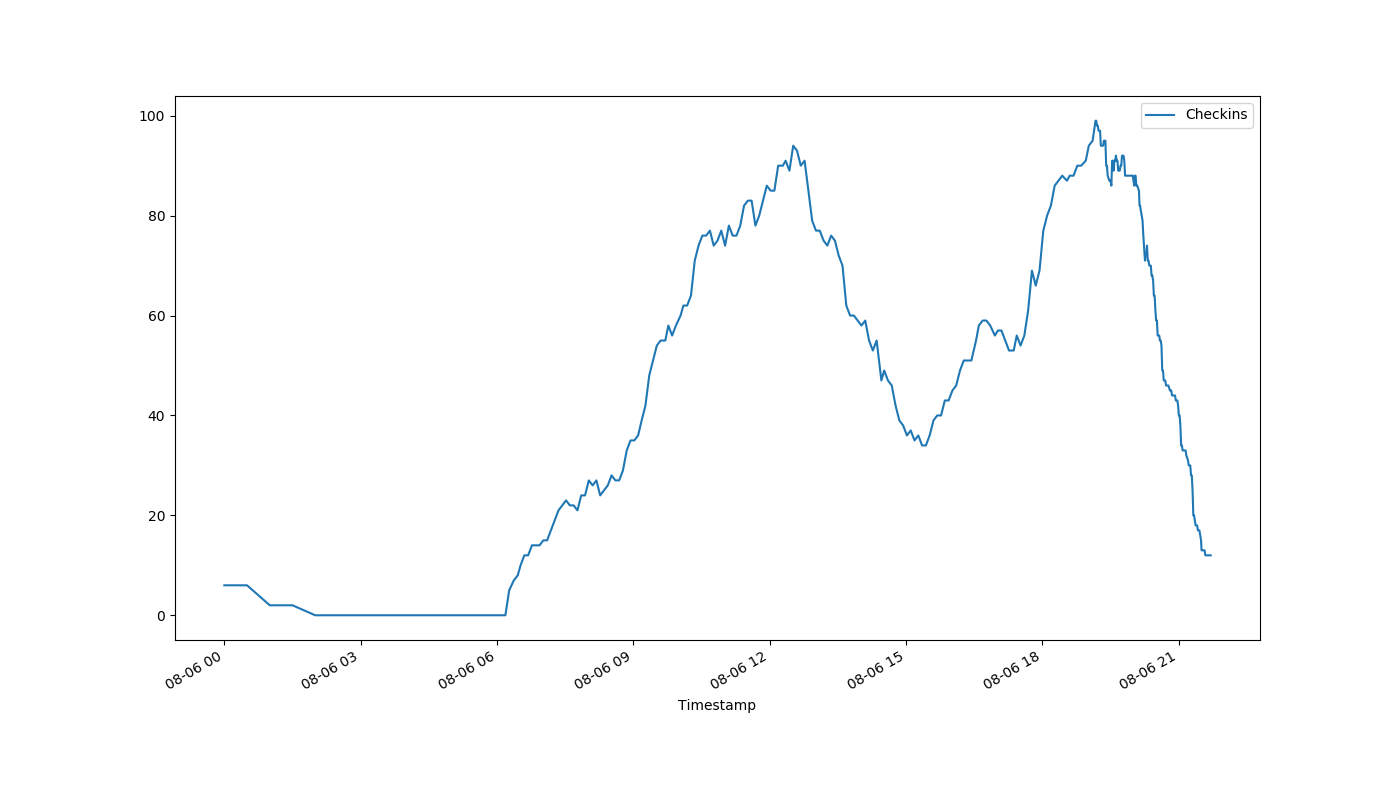
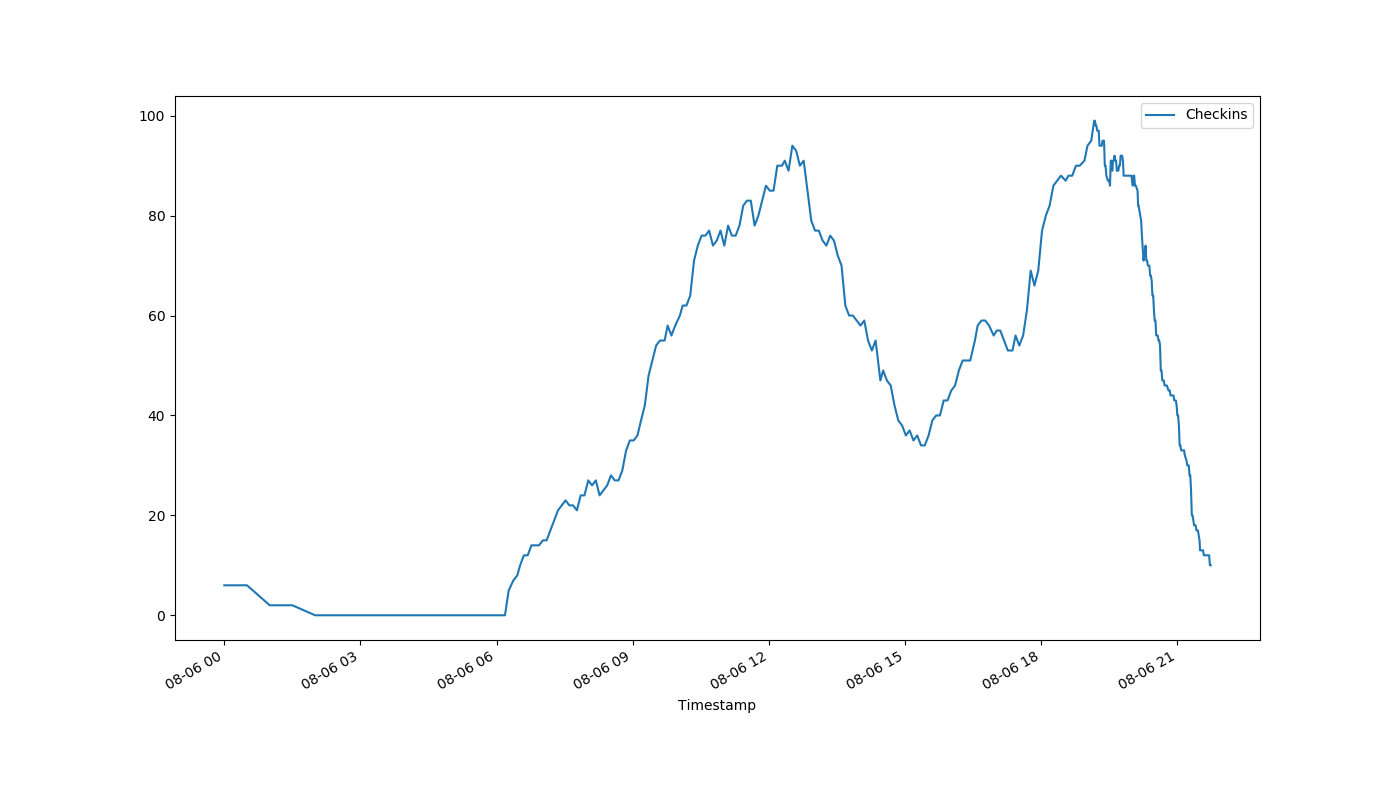
auto-Aug-06-21:45:14

diff --git a/index.html b/index.html
@@ -1,1 +1,1 @@
-<!DOCTYPE html><html><head><meta http-equiv="refresh" content="15"><link rel='stylesheet' href='holmcurrent.css'></head><body><p id='count'>12</p><div id='graph-wrap'><img id='graph' src='holmgraph-Aug-06.png'></div><p id='updated'>Last updated 21:43:07 / 21:42:12</p></body></html>
+<!DOCTYPE html><html><head><meta http-equiv="refresh" content="15"><link rel='stylesheet' href='holmcurrent.css'></head><body><p id='count'>10</p><div id='graph-wrap'><img id='graph' src='holmgraph-Aug-06.png'></div><p id='updated'>Last updated 21:45:07 / 21:44:13</p></body></html>
